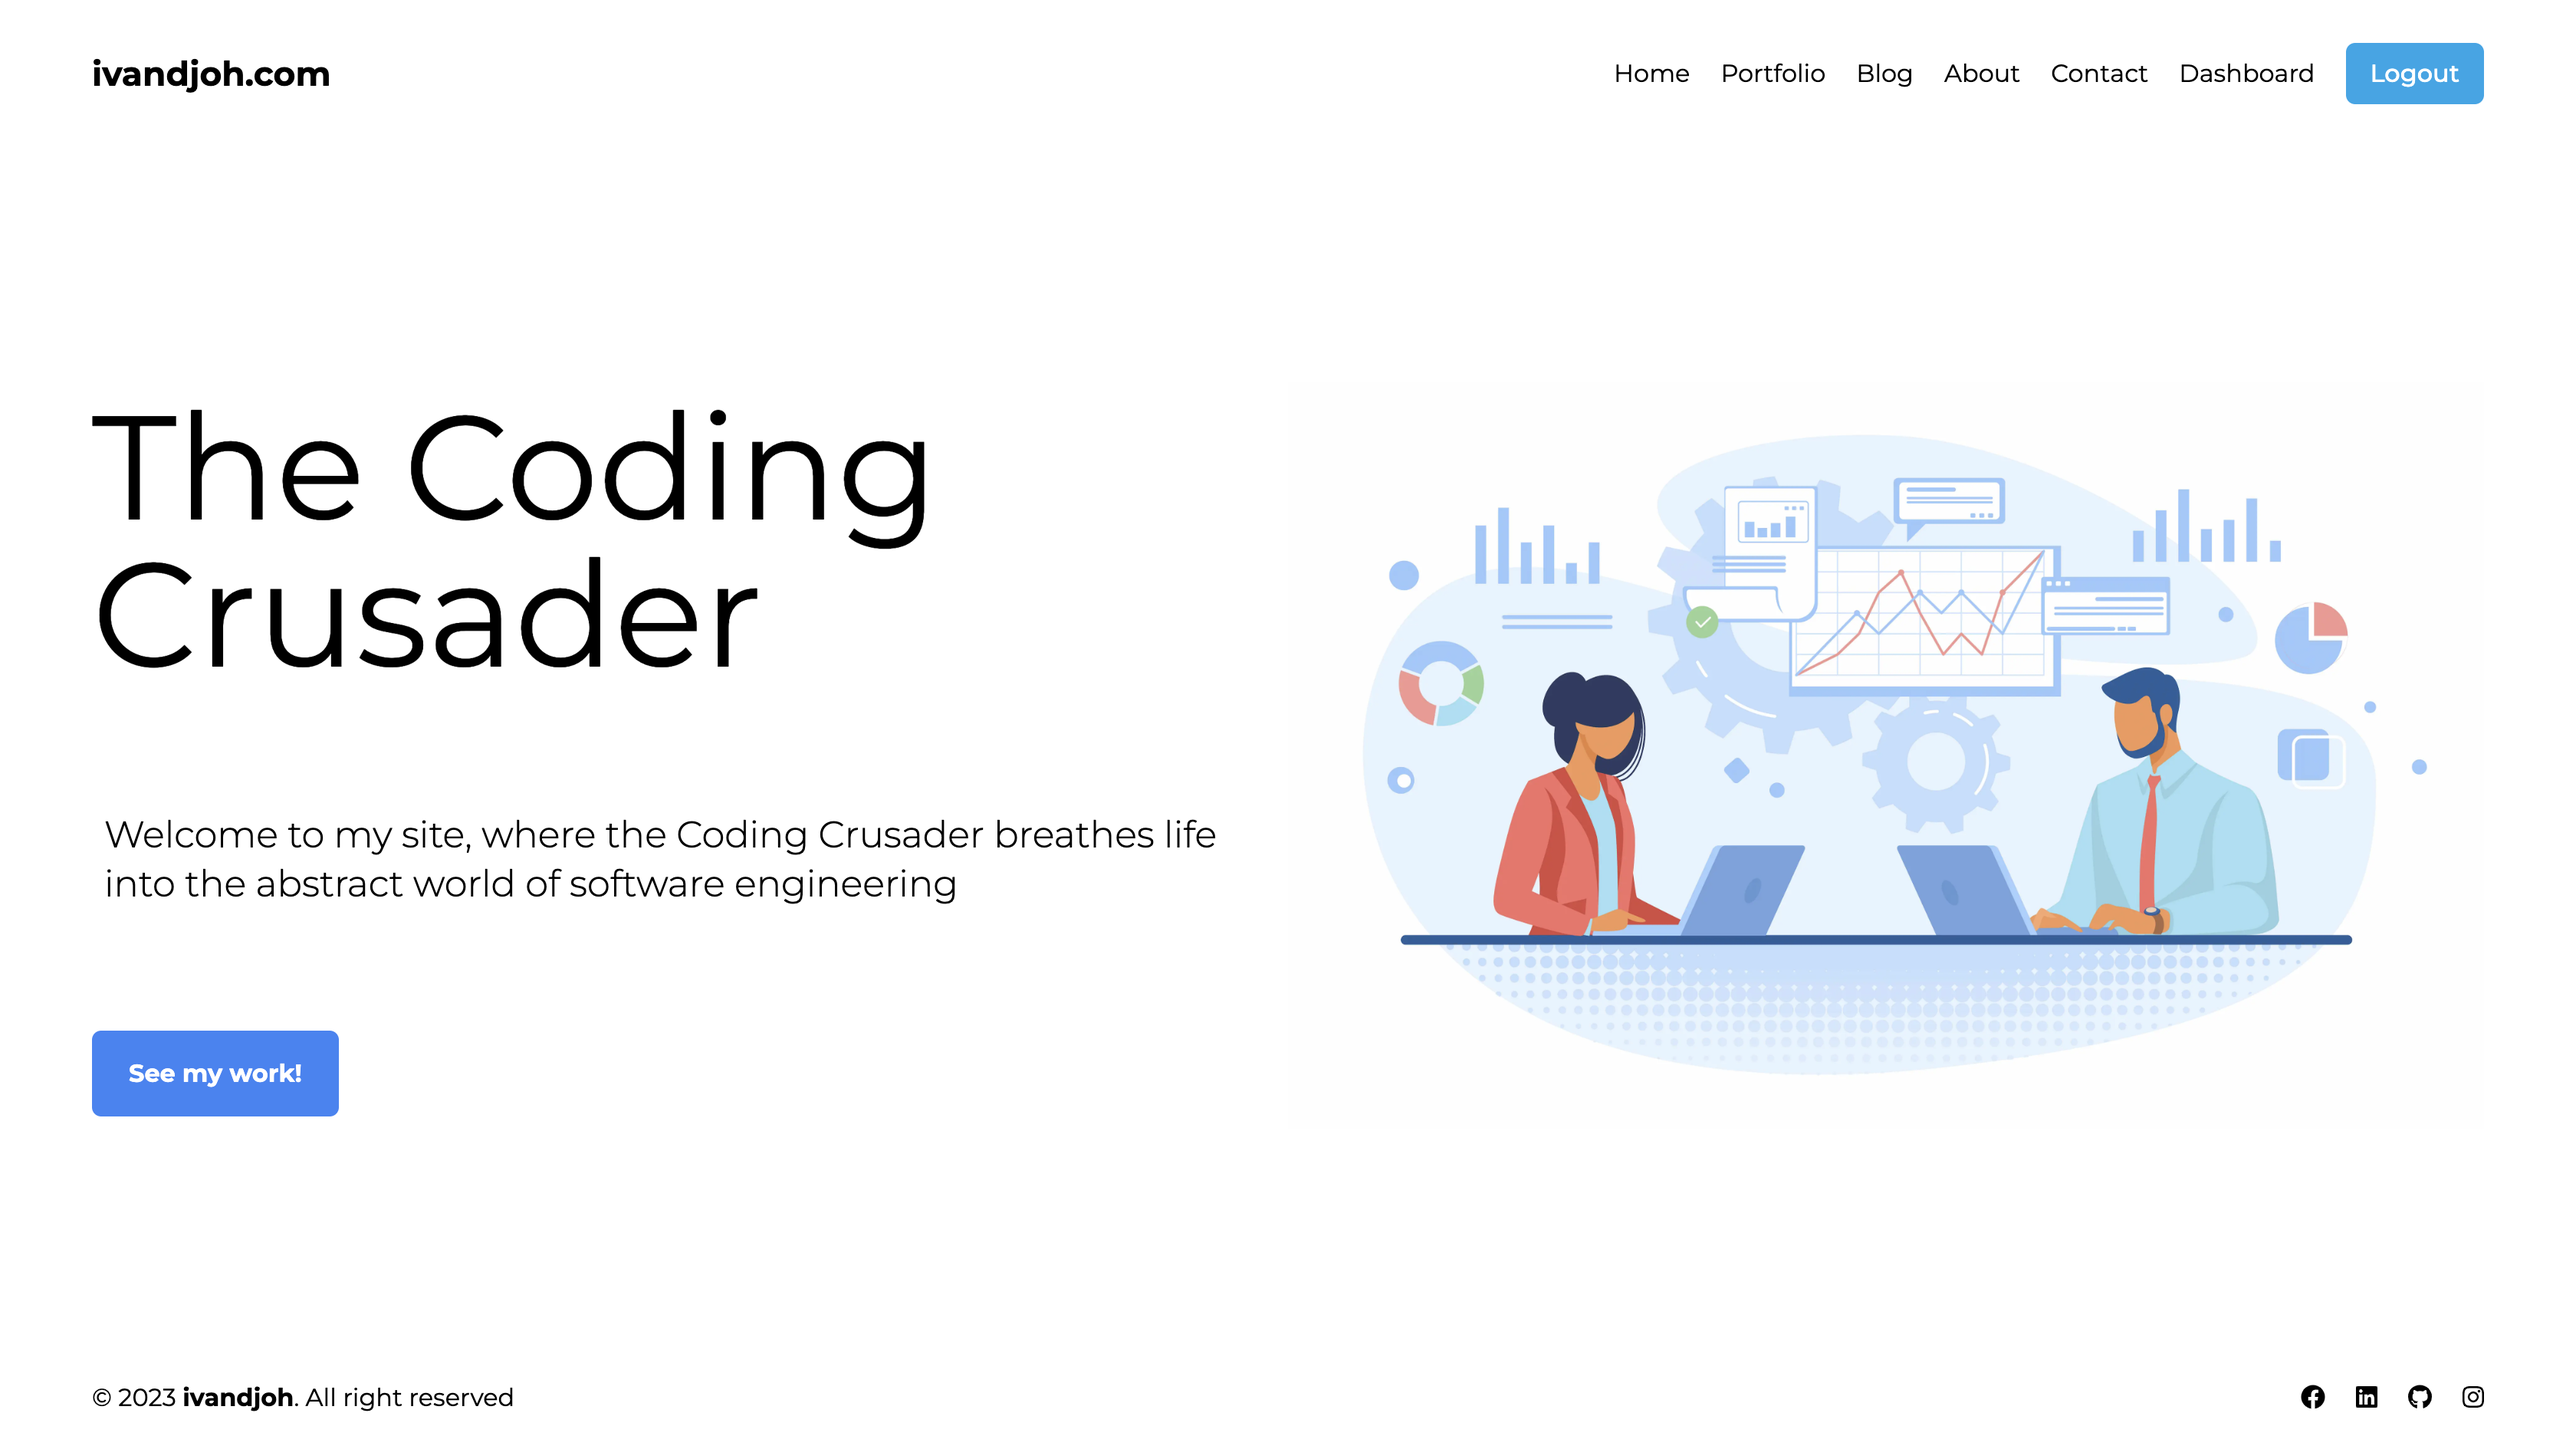
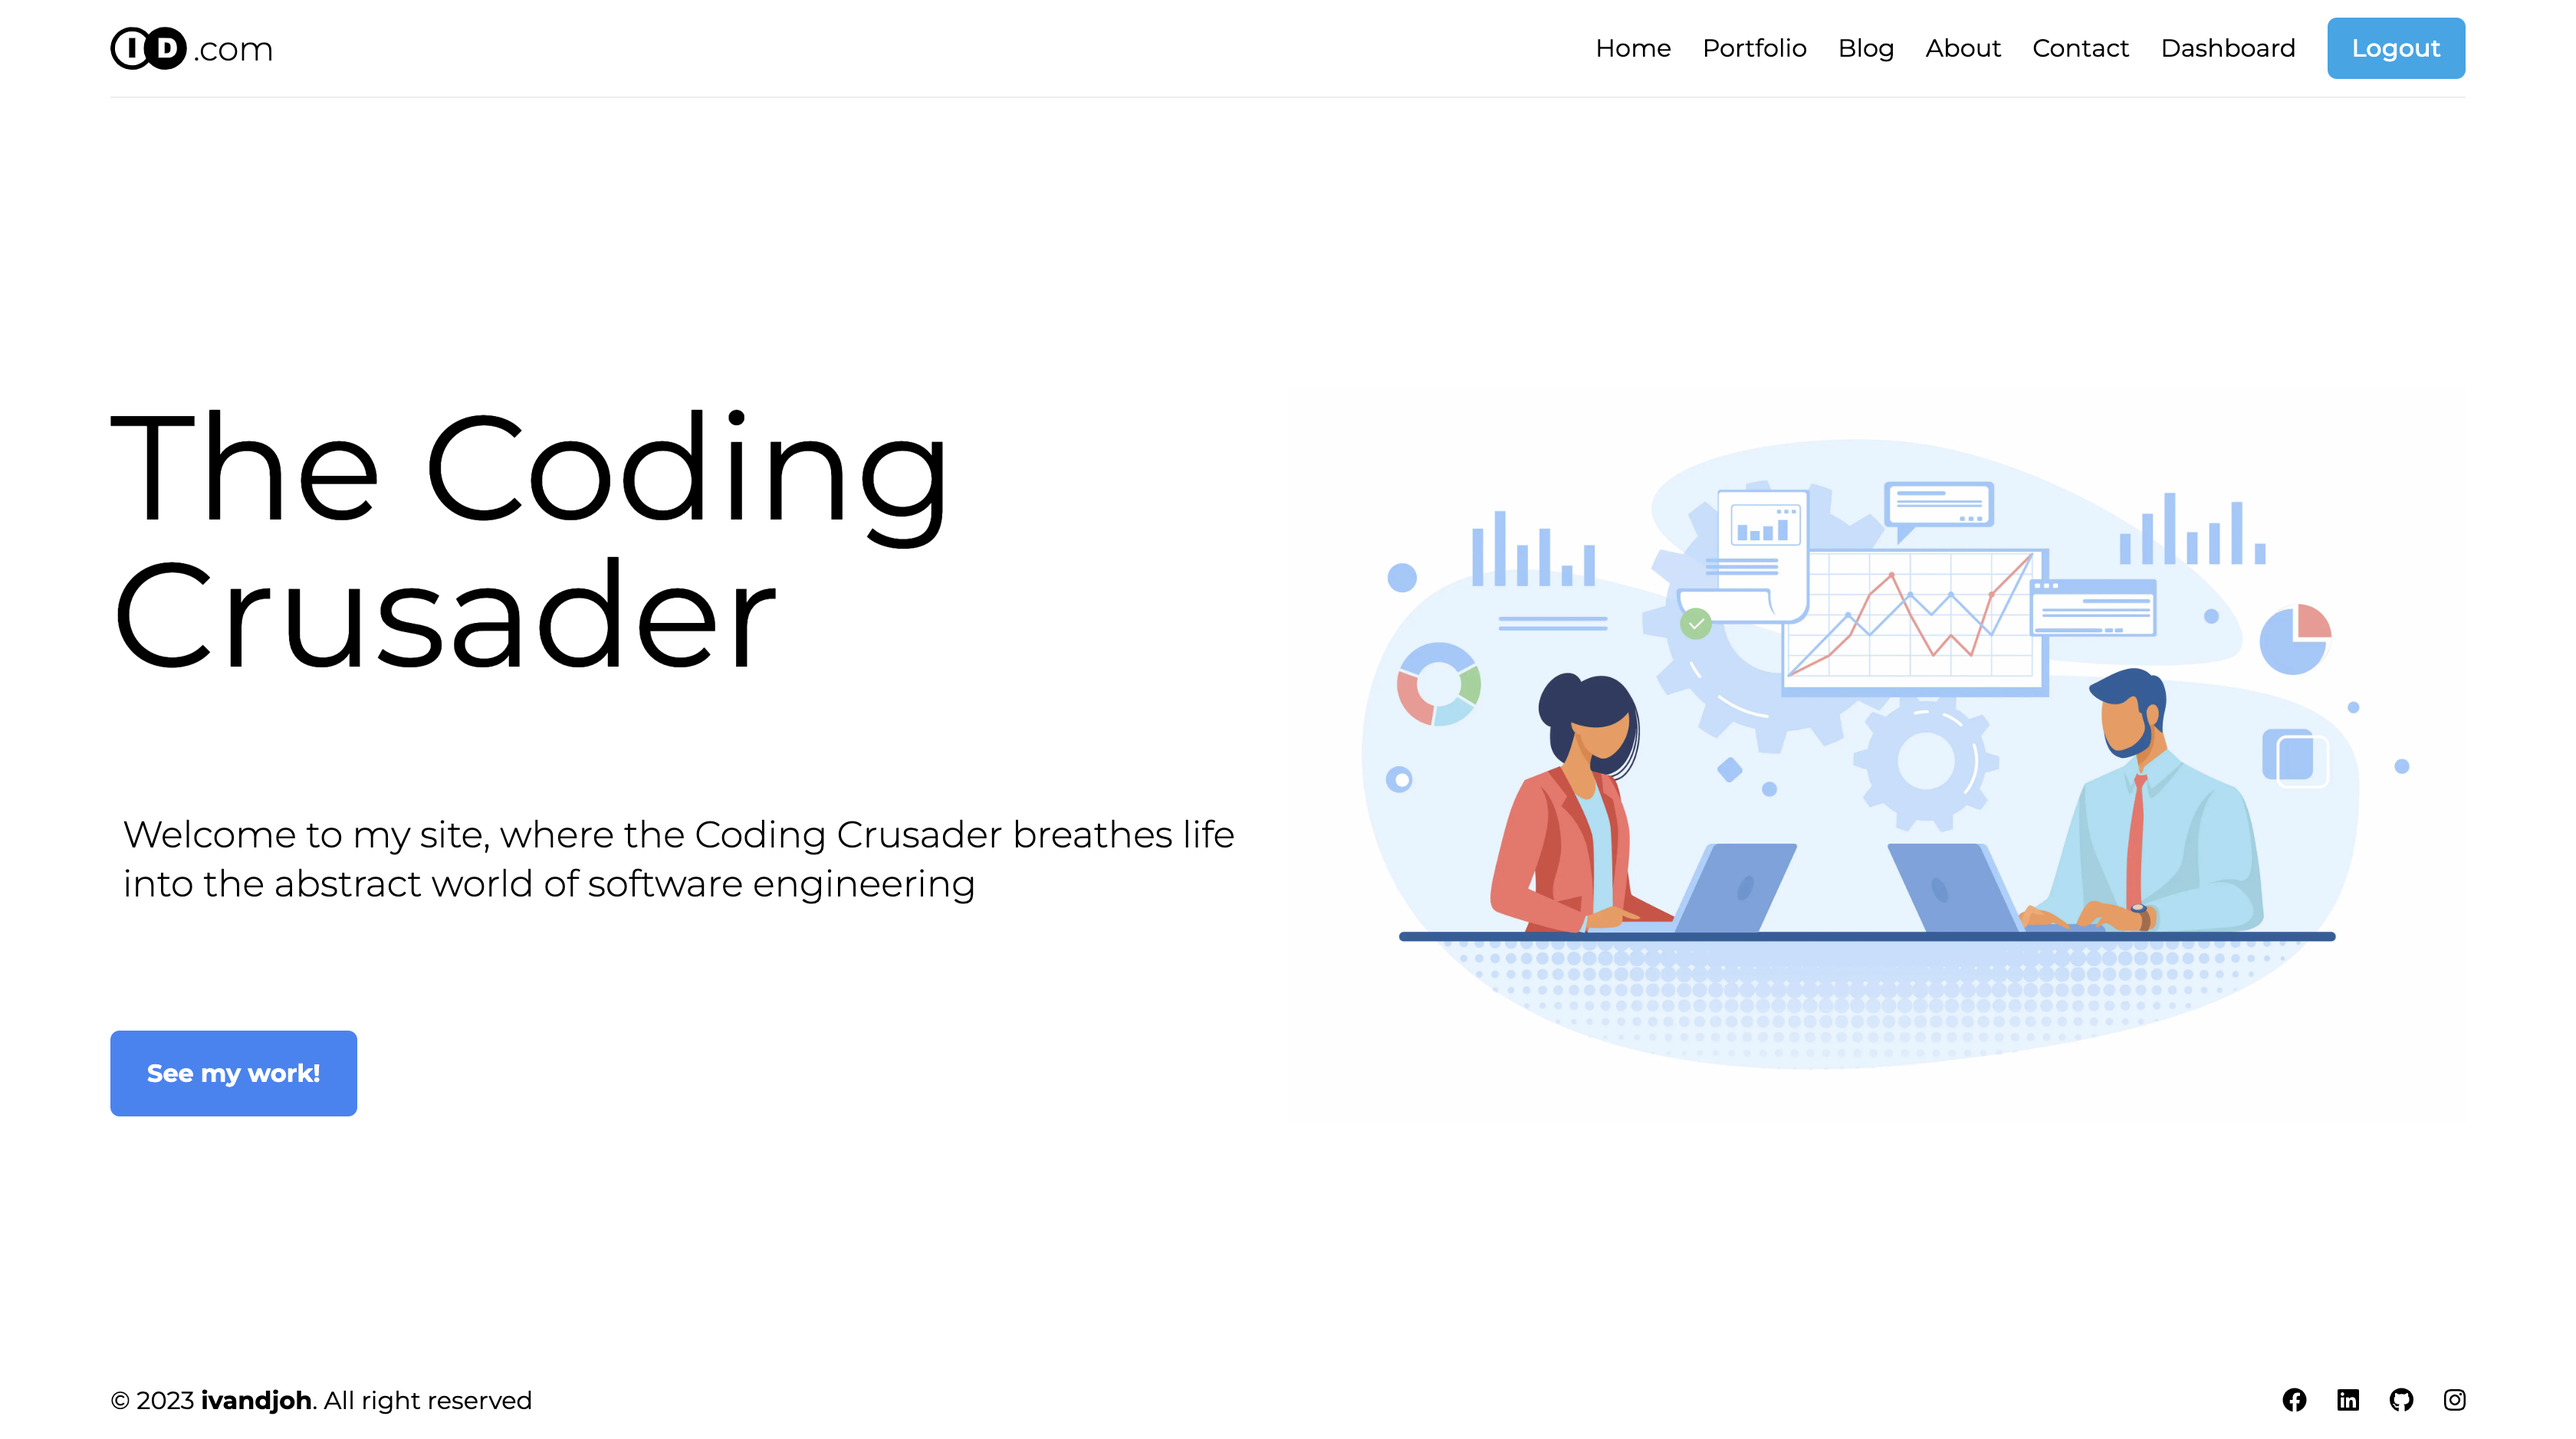
updating home styling

diff --git a/src/components/navbar/Navbar.tsx b/src/components/navbar/Navbar.tsx
@@ -2,15 +2,24 @@
 
 import React from "react";
 import Link from "next/link";
-import {links} from "@/utils/nav-links/NavLinks";
 
 import styles from "./navbar.module.css";
+
+import {links} from "@/utils/nav-links/NavLinks";
+import {navBarContainer} from "@/utils/components-styles/navbarStylesComponent";
+import Image from "next/image";
 
 const Navbar: React.FC = () => {
     return (
         <>
-            <main className={styles.container}>
-                <Link href="/" className={styles.logo}>ivandjoh.com</Link>
+            <nav className={[navBarContainer, styles.container].join(" ")}>
+                <Link href="/" className={styles.logo}>
+                    <div className="flex items-center">
+                        <Image src="/logo.svg" alt="ivandjoh" width={50} height={50} className="rounded-full" />
+                        <span className="ml-1 font-light">.com</span>
+                    </div>
+                </Link>
+
                 <div className={styles.links}>
                     {links.map((link, index) => {
                         return (
@@ -21,7 +30,7 @@ const Navbar: React.FC = () => {
                         className="bg-sky-500 hover:bg-sky-600 hover:text-white text-white font-medium py-2 px-4 rounded-md max-w-fit"
                         onClick={() => console.log("clicked")}>Logout</button>
                 </div>
-            </main>
+            </nav>
         </>
     );
 }

diff --git a/src/app/page.tsx b/src/app/page.tsx
@@ -8,7 +8,7 @@ import Image from "next/image";
 const HomePage: React.FC = () => {
     return (
         <>
-            <div className="flex h-16 items-center justify-center gap-100">
+            <div className="flex h-16 items-center justify-center gap-100 mt-8">
                 <div className="flex  flex-1 flex-col gap-20">
                     <h1 className="text-8xl ease-linear">The Coding Crusader</h1>
                     <p className="text-2xl font-light  ml-2">

diff --git a/src/app/layout.tsx b/src/app/layout.tsx
@@ -1,13 +1,13 @@
 import React from "react";
 import './globals.css'
 import {Montserrat} from 'next/font/google'
-import { config } from '@fortawesome/fontawesome-svg-core'
+import {config} from '@fortawesome/fontawesome-svg-core'
 import '@fortawesome/fontawesome-svg-core/styles.css'
+
 config.autoAddCss = false
 
 import Navbar from "@/components/navbar/Navbar";
 import Footer from "@/components/footer/Footer";
-
 
 
 const montserrat = Montserrat({

diff --git a/src/components/navbar/navbar.module.css b/src/components/navbar/navbar.module.css
@@ -1,14 +1,15 @@
 .container {
-    height: 100px;
-    display: flex;
     justify-content: space-between;
-    align-items: center;
+    z-index: 99;
+    background-color: white;
+    border-bottom: 1px solid #eee;
 }
 
 .logo {
     font-size: 22px;
     font-weight: 700;
     color: var(--foreground);
+    align-items: center;
 }
 
 .links {

diff --git a/src/utils/components-styles/navbarStylesComponent.ts b/src/utils/components-styles/navbarStylesComponent.ts
@@ -1,0 +1,21 @@
+const navBarContainer = [
+    "flex",
+    "h-16",
+    "items-center",
+    "sticky",
+    "top-0",
+    "border-b",
+    "shadow-lg",
+    "w-full",
+    "border-b",
+    "justify-between",
+    "flex-wrap",
+    "p-5",
+    "m-auto",
+    "top-0",
+    "animated"
+].join(" ");
+
+export {
+    navBarContainer
+}

diff --git a/src/app/globals.css b/src/app/globals.css
@@ -36,10 +36,10 @@ a {
 }
 
 .container {
-    max-width: 100%;
+    width: 100%;
     min-height: 100vh;
     margin: 0 auto;
-    padding: 0 60px;
+    padding: 0 0;
     display: flex;
     flex-direction: column;
     justify-content: space-between;
